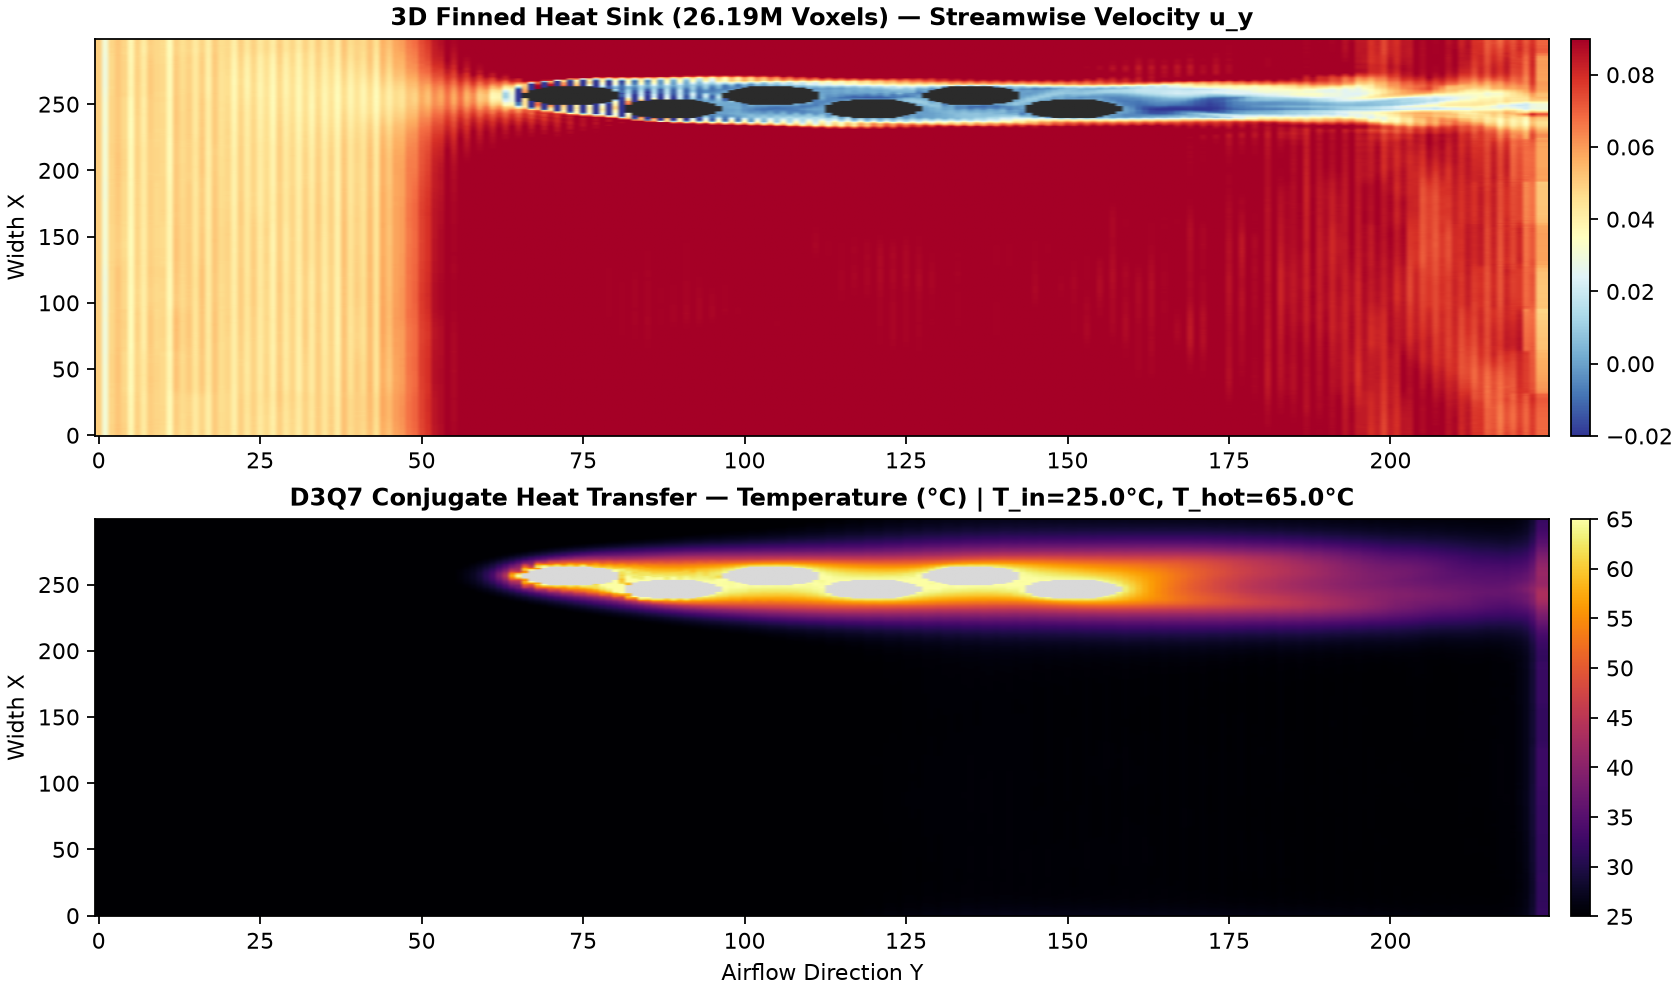
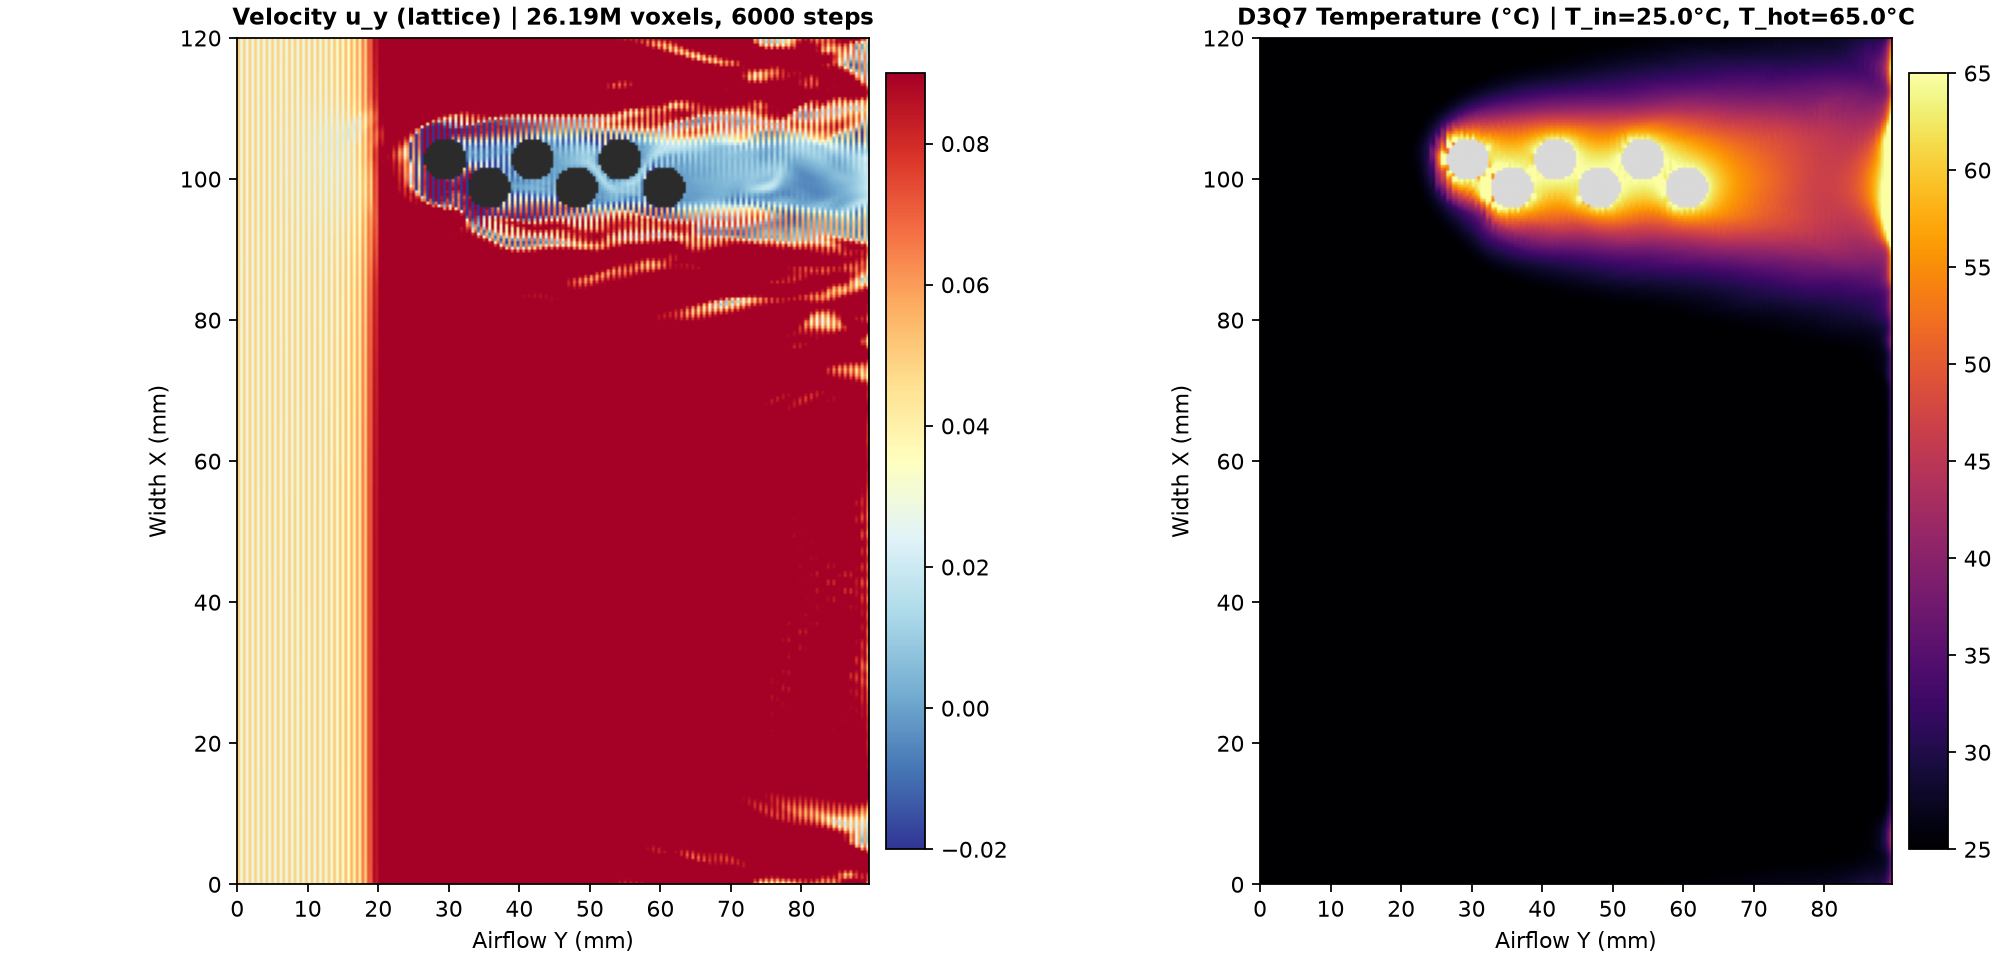
fix: eliminate y-boundary race condition in AA-pattern odd step and update 6000-step demo

diff --git a/examples/finned_heatsink.py b/examples/finned_heatsink.py
@@ -74,7 +74,7 @@ def build_heatsink(pitch_mm=0.4, pad_y=20.0):
 
 
 def main():
-    pitch_mm, u_phys, steps = 0.4, 2.5, 2000
+    pitch_mm, u_phys, steps = 0.4, 2.5, 6000
     t_in, t_hot = 25.0, 65.0
     u_lat = 0.05
     gap_mm = 2.488 - 0.3
@@ -101,24 +101,29 @@ def main():
     os.makedirs(out_dir, exist_ok=True)
     out_png = os.path.join(out_dir, "heatsink_thermal_demo.png")
 
-    fig, axes = plt.subplots(2, 1, figsize=(10.5, 6.2), dpi=160, constrained_layout=True)
-    u_plot = np.ma.masked_where(solid[mid].T, uy.T)
-    t_plot = np.ma.masked_where(solid[mid].T, temp.T)
+    fig, axes = plt.subplots(1, 2, figsize=(12.5, 6.0), dpi=160, constrained_layout=True)
+    # 剔除 y=ny-1 出口边界层并采用真实物理坐标 (mm) 与 1:1 等比例显示
+    u_plot = np.ma.masked_where(solid[mid, :-1, :].T, uy[:-1, :].T)
+    t_plot = np.ma.masked_where(solid[mid, :-1, :].T, temp[:-1, :].T)
+    extent = [0.0, (ny - 1) * pitch_mm, 0.0, nx * pitch_mm]
 
     cmap_u = plt.get_cmap("RdYlBu_r").copy()
     cmap_u.set_bad(color="#2b2b2b")
-    im0 = axes[0].imshow(u_plot, origin="lower", cmap=cmap_u, vmin=-0.02, vmax=0.09, aspect="auto")
-    axes[0].set_title(f"3D Finned Heat Sink ({solid.size/1e6:.2f}M Voxels) — Streamwise Velocity u_y", fontsize=11, fontweight="bold")
-    axes[0].set_ylabel("Width X")
-    fig.colorbar(im0, ax=axes[0], pad=0.015, fraction=0.025)
+    im0 = axes[0].imshow(u_plot, origin="lower", cmap=cmap_u, vmin=-0.02, vmax=0.09,
+                         aspect="equal", extent=extent)
+    axes[0].set_title(f"Velocity u_y (lattice) | {solid.size/1e6:.2f}M voxels, {steps} steps", fontsize=10.5, fontweight="bold")
+    axes[0].set_xlabel("Airflow Y (mm)")
+    axes[0].set_ylabel("Width X (mm)")
+    fig.colorbar(im0, ax=axes[0], pad=0.02, fraction=0.045)
 
     cmap_t = plt.get_cmap("inferno").copy()
     cmap_t.set_bad(color="#d9d9d9")
-    im1 = axes[1].imshow(t_plot, origin="lower", cmap=cmap_t, vmin=t_in, vmax=t_hot, aspect="auto")
-    axes[1].set_title(f"D3Q7 Conjugate Heat Transfer — Temperature (°C) | T_in={t_in}°C, T_hot={t_hot}°C", fontsize=11, fontweight="bold")
-    axes[1].set_xlabel("Airflow Direction Y")
-    axes[1].set_ylabel("Width X")
-    fig.colorbar(im1, ax=axes[1], pad=0.015, fraction=0.025)
+    im1 = axes[1].imshow(t_plot, origin="lower", cmap=cmap_t, vmin=t_in, vmax=t_hot,
+                         aspect="equal", extent=extent)
+    axes[1].set_title(f"D3Q7 Temperature (°C) | T_in={t_in}°C, T_hot={t_hot}°C", fontsize=10.5, fontweight="bold")
+    axes[1].set_xlabel("Airflow Y (mm)")
+    axes[1].set_ylabel("Width X (mm)")
+    fig.colorbar(im1, ax=axes[1], pad=0.02, fraction=0.045)
 
     fig.savefig(out_png, dpi=160)
     plt.close(fig)
